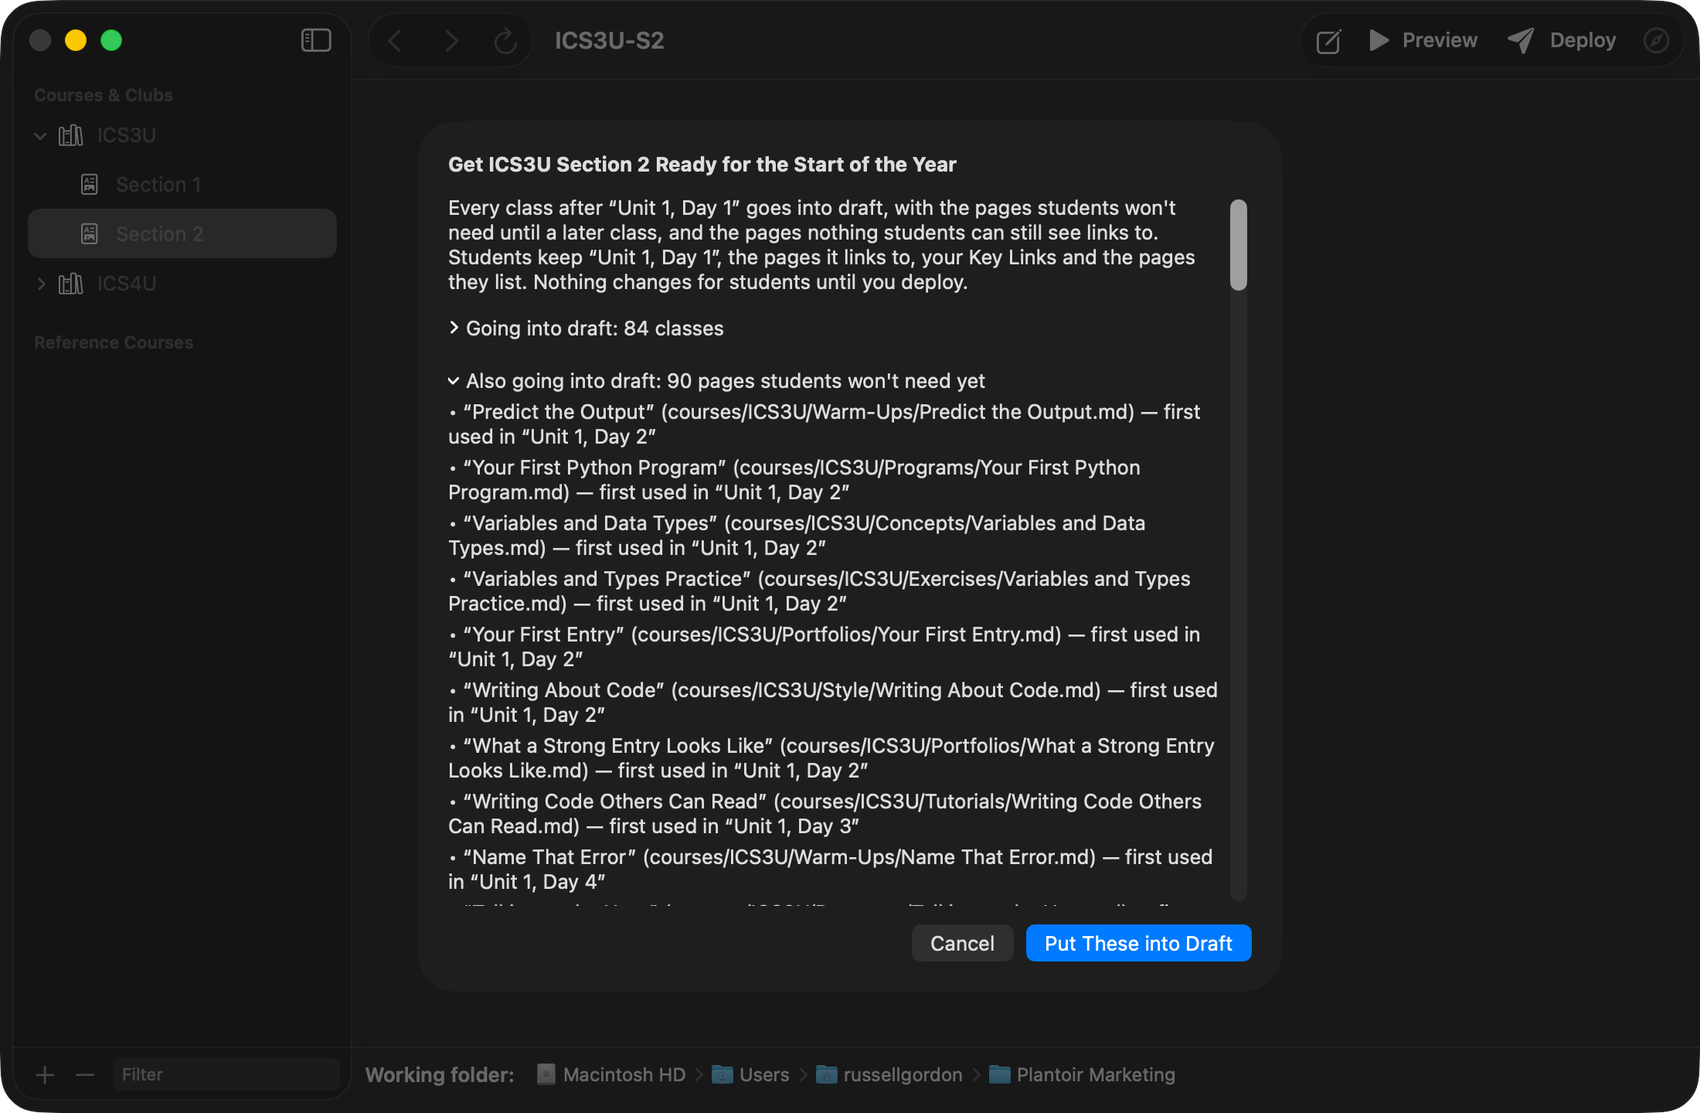
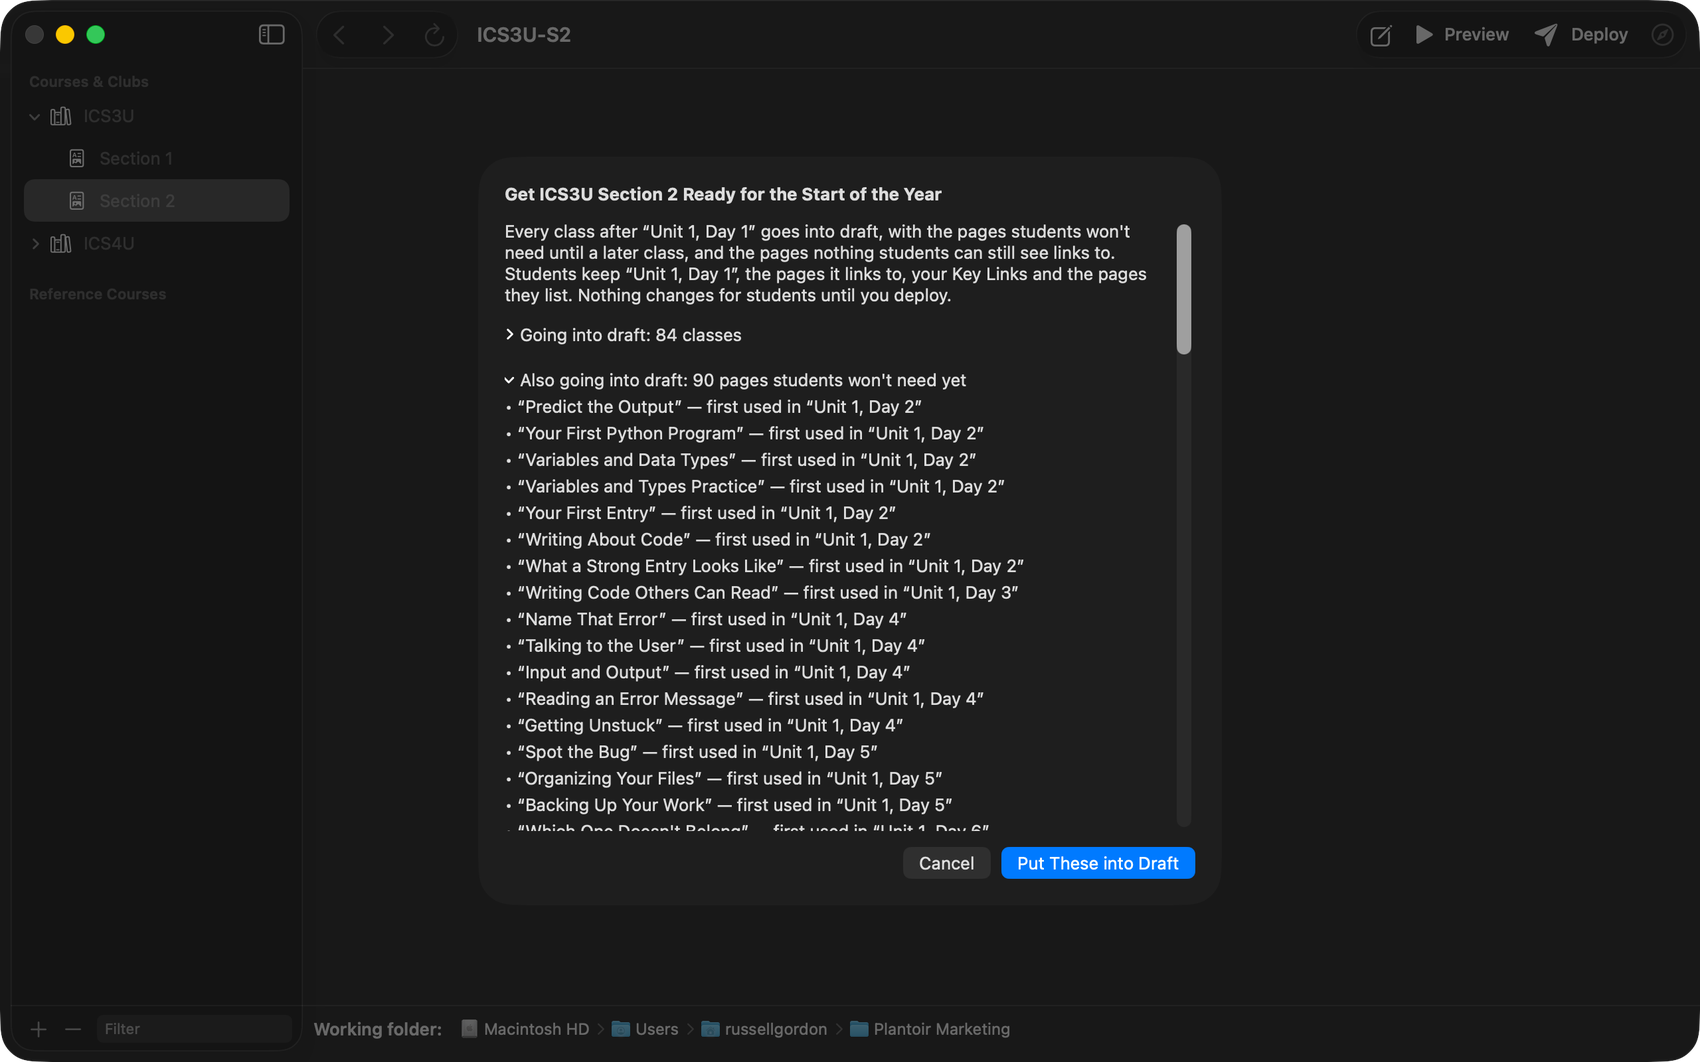
v1.4.1: marketing screenshots for the changed scenes
Retook courses, club, start-of-year, new-course and curriculum-settings,
light and dark, from native screencapture -x -o -l window captures
(Dock Debug bundle, --state-dir): Language and region, no Class Pages
group for a non-club, the disabled Save, Club code/Club name/Create
Club, and page titles in the Get Ready plan. expectText now asks for
the new wording, so an old picture fails its scene.

diff --git a/site/features/index.html b/site/features/index.html
@@ -139,7 +139,7 @@
       <source srcset="../img/new-course-dark.png" media="(prefers-color-scheme: dark)">
       <source srcset="../img/new-course-light.webp" type="image/webp">
       <img src="../img/new-course-light.png" alt="The New Course panel with TEJ3M entered and its suggested course names offered beneath."
-           width="850" height="556" loading="lazy" decoding="async">
+           width="850" height="531" loading="lazy" decoding="async">
     </picture>
     <figcaption>A course code is enough to start.</figcaption>
 </figure>
@@ -186,7 +186,7 @@
       <source srcset="../img/curriculum-settings-dark.png" media="(prefers-color-scheme: dark)">
       <source srcset="../img/curriculum-settings-light.webp" type="image/webp">
       <img src="../img/curriculum-settings-light.png" alt="ICS3U's Course Settings with both the Curriculum folder and the College Board Curriculum folder ticked as curricula."
-           width="850" height="556" loading="lazy" decoding="async">
+           width="850" height="531" loading="lazy" decoding="async">
     </picture>
     <figcaption>Tick a folder, and it gets a map.</figcaption>
 </figure>
@@ -359,7 +359,7 @@
       <source srcset="../img/club-dark.png" media="(prefers-color-scheme: dark)">
       <source srcset="../img/club-light.webp" type="image/webp">
       <img src="../img/club-light.png" alt="The New Course or Club panel with CODING entered and "This is a club" switched on, explaining that a club's pages are numbered one after another, it has no curriculum, and it starts with a page for its first meeting."
-           width="850" height="556" loading="lazy" decoding="async">
+           width="850" height="531" loading="lazy" decoding="async">
     </picture>
     <figcaption>Clubs start the way clubs do.</figcaption>
 </figure>

diff --git a/site/day-to-day/index.html b/site/day-to-day/index.html
@@ -101,7 +101,7 @@
       <source srcset="../img/start-of-year-dark.png" media="(prefers-color-scheme: dark)">
       <source srcset="../img/start-of-year-light.webp" type="image/webp">
       <img src="../img/start-of-year-light.png" alt="The Get Ready for the Start of the Year sheet for ICS3U Section 2, listing the classes and pages it will put into draft, with a reason beside each."
-           width="850" height="556" loading="lazy" decoding="async">
+           width="850" height="531" loading="lazy" decoding="async">
     </picture>
     <figcaption>Every class after Day 1 into draft, with the reasons, before you agree.</figcaption>
 </figure>

diff --git a/site/index.html b/site/index.html
@@ -121,7 +121,7 @@
   </div>
   <!-- AUTO-UPDATED when a release is cut: the version and date come from
        website/site.json, which the cut-release skill rewrites. -->
-  <p class="version-note">Version 1.4.0 &middot; Released September 2026 &middot; <a href="https://github.com/russellgordon/plantoir/releases">All releases</a></p>
+  <p class="version-note">Version 1.4.1 &middot; Released September 2026 &middot; <a href="https://github.com/russellgordon/plantoir/releases">All releases</a></p>
 </section>
 
 <hr class="rule">
